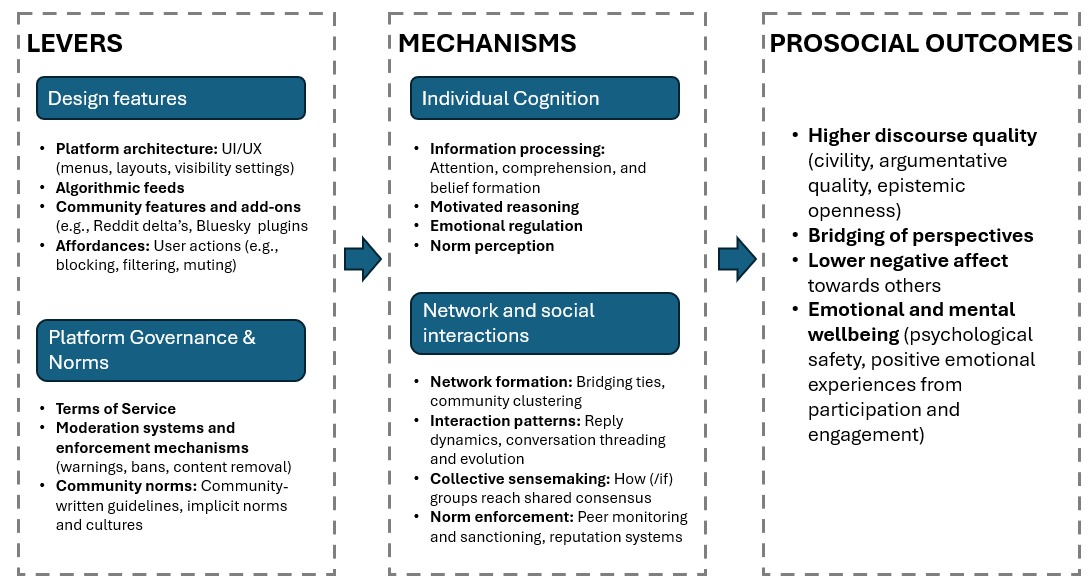
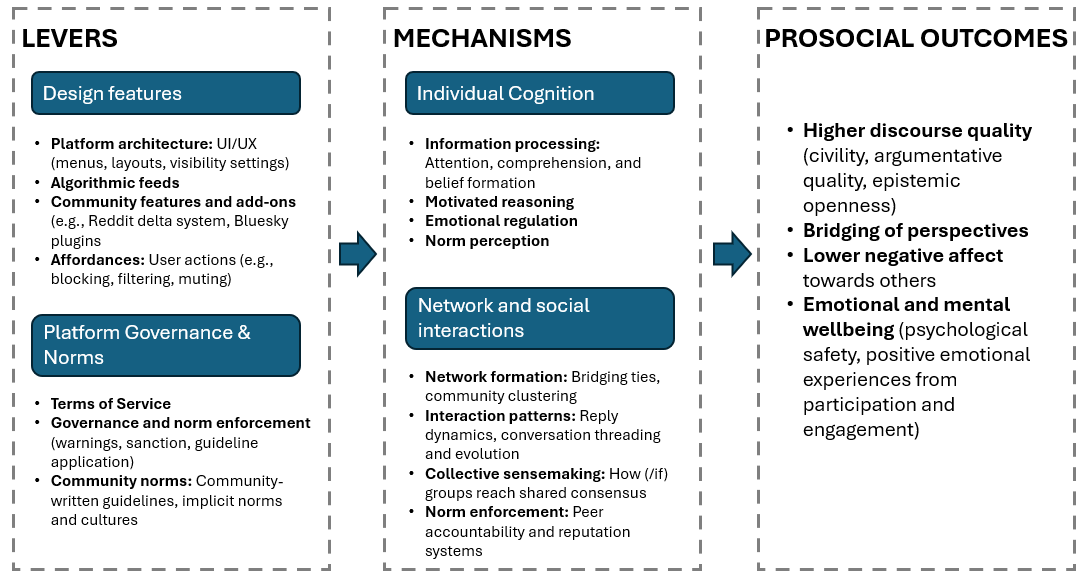
Blog updates

diff --git a/_posts/2025-12-23-first-semester-recap.md b/_posts/2025-12-23-first-semester-recap.md
@@ -6,7 +6,7 @@ date: 2025-12-23 22:00:00 -0500
 last_modified_at: 2025-12-23 22:00:00 -0500
 author_profile: true
 comments: false
-tags: [PhD life, technology, research updates, experiments, prosocial design, content moderation, discourse quality, community]
+tags: [PhD life, technology, research updates, experiments, prosocial design, online communities, discourse quality, community governance]
 excerpt: "I said I'd blog regularly. That hasn't happened. But between fielding an experiment, working with PDN, faciliting a workshop at Roblox, and making friends, it's been a packed semester."
 ---
 
@@ -17,7 +17,7 @@ My grand plans of keeping the blog regularly updated have fallen by the wayside.
 The silence on the blog front belies what has been a whirlwind semester. There were times it was intense, there were times I felt like I wasn't doing enough, but looking back, I think I can be proud with the progress I've made in three months. To tally it up:
 
 - Completed my first semester of coursework
-- Used that coursework to develop and field an experiment on community moderation
+- Used that coursework to develop and field an experiment on community governance
 - Used that experiment to apply for a grant (which, alas, I did not get, but it was a great foundational experience) and present to my research center
 - Used coursework in my other classes to develop and validate a quality measurement scale, setting me up for productive research next semester
 - Read a bunch of papers – this will be important to doing my PhD, I've discovered
@@ -34,9 +34,7 @@ I came into graduate school with a semi-clear idea of what I wanted my research 
 ![Research framework](/images/posts/first_semester_recap/research-framework.png)
 *Conceptual framework for Rehan's research (or more ambitiously, a "Theory of Change for Digital Platforms")*
 
-The community moderation experiment I developed maps well onto all three elements of this framework. Respondents played the role of moderators on a meme forum and judged whether political memes violated forum rules - [you can try it here](https://upenn.co1.qualtrics.com/jfe6/preview/previewId/8293b897-2f20-4429-826a-458dbbcead0b/SV_0BtlENc4Bbbniei?Q_CHL=preview&Q_SurveyVersionID=current)!
-
-I tested whether political alignment with the memes results in more lenient moderation judgments, and initial findings suggest it did. Mapping this onto my framework, (a) community moderation is a lever falling under the umbrella of "platform governance and norms", (b) my theory relied on motivated reasoning from cognitive psychology and (c) the outcome hopes to address potentially divisive or unfair moderation decisions.
+The community governance experiment I developed maps well onto all three elements of this framework. Respondents played the role of community administrators on a forum and evaluated whether user-generated content aligned with established community guidelines. I tested whether participants' personal viewpoints influenced their judgment consistency, and initial findings suggest alignment affected evaluation patterns. Mapping this onto my framework, (a) community governance mechanisms fall under the umbrella of "platform governance and norms", (b) my theory relied on motivated reasoning from cognitive psychology, and (c) the outcome hopes to address potential inconsistencies in community guideline enforcement.
 
 The quality scale I developed not only measures discourse quality outcomes, but will be used to examine the ['delta reward system' on r/ChangeMyView](https://www.reddit.com/r/changemyview/wiki/deltasystem/), a community design feature which I interpret to positively influence discourse quality through [Mercier and Sperber (2011)'s](https://psycnet.apa.org/record/2011-08343-001) argumentative theory of reasoning, which covers both individual cognition and social interaction.
 
@@ -44,7 +42,7 @@ So "what does it actually mean to do research"? Some reflections:
 
 **Concept explication and measurement approaches are crucial.** When I initially drafted my experiment's study design and grant proposal, it got ripped apart. The main reason was the lack of a solid theory behind what I was proposing. Instinctively I had the right idea – alignment influenced moderation judgments – but I had little justification from what is a vast body of literature on this topic to support my study design. This flowed through to construct validity – that we are properly measuring what we intend to measure. I initially confused my outcome, the violative nature of content – or more precisely, if content was recognized as violating ('violation recognition'), and how severely violations are punished ('enforcement severity') – with one of the study manipulations. I essentially said, "We will manipulate how violating the content is, and we want to measure how that affects how violating people think the content is". Doesn't make much sense! I realized I needed another dimension – incivility – and explicit forum rules stating that incivility violated community standards.
 
-The other big reflection is to **be humble in knowing what you don't know, but hopefully will in the future.** The answer to addressing that is simple, if difficult. Read. Then read some more. My advisor starts and ends every semester asking people in our center to share one piece of research that has blown our mind. This demonstrates the importance of reading regularly, to keep up to date with a constantly evolving literature, and one you're playing catch up with simultaneously, as you're consolidating foundational knowledge on topics you're trying to become an expert on.
+The other big reflection is to **be humble in knowing what you don't know, but hopefully will in the future.** The answer to addressing that is simple in concept, if difficult in practice. Read. Then read some more. My advisor starts and ends every semester asking people in our center to share one piece of research that has blown our mind. This demonstrates the importance of reading regularly, to keep up to date with a constantly evolving literature, and one you're playing catch up with simultaneously, as you're consolidating foundational knowledge on topics you're trying to become an expert on.
 
 **Technical foundations are important,** and that leads nicely into plans for next semester. I'm taking an intro to stats class for the fourth time in my higher education next semester, but I'm excited to do so because every time I learn something new. Between that class, Modern Data Mining, and ongoing research, I hope to one day be proficient in R. I'd like to continue to build my knowledge of the mechanisms literature, build out a database of emerging interventions that could move the dial in tech industry, and continue to develop the two studies I started this semester into publishable work that provides tangible contributions to both literature and practice.
 
